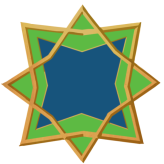
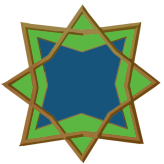
Misc fixes.  Darkened the border edge of guardian energy orb to make it not blend with guardian card frame

diff --git a/src/main/java/downfall/powers/neowpowers/UnbridledRage.java b/src/main/java/downfall/powers/neowpowers/UnbridledRage.java
@@ -1,12 +1,17 @@
 package downfall.powers.neowpowers;
 
+import charbosses.actions.unique.EnemyChangeStanceAction;
+import charbosses.bosses.AbstractCharBoss;
+import charbosses.stances.EnWrathStance;
 import com.badlogic.gdx.graphics.Texture;
 import com.badlogic.gdx.graphics.g2d.TextureAtlas;
 import com.megacrit.cardcrawl.actions.common.ApplyPowerAction;
 import com.megacrit.cardcrawl.core.AbstractCreature;
 import com.megacrit.cardcrawl.core.CardCrawlGame;
 import com.megacrit.cardcrawl.powers.AbstractPower;
-import com.megacrit.cardcrawl.powers.StrengthPower;import downfall.downfallMod; import charbosses.powers.bossmechanicpowers.AbstractBossMechanicPower;
+import com.megacrit.cardcrawl.powers.StrengthPower;
+import com.megacrit.cardcrawl.stances.NeutralStance;
+import downfall.downfallMod; import charbosses.powers.bossmechanicpowers.AbstractBossMechanicPower;
 import downfall.util.TextureLoader;
 
 public class UnbridledRage extends AbstractBossMechanicPower {
@@ -31,30 +36,20 @@ public class UnbridledRage extends AbstractBossMechanicPower {
         this.updateDescription();
 
         active = false;
+
         this.canGoNegative = false;
     }
 
-    @Override
-    public int onLoseHp(int damageAmount) {
-        if (!active) {
-            if (owner.currentHealth <= owner.maxHealth / 2) {
-                active = true;
-                addToBot(new ApplyPowerAction(this.owner, this.owner, new StrengthPower(this.owner, 6), 6));
-            }
-        }
-        return super.onLoseHp(damageAmount);
-    }
 
     @Override
-    public int onHeal(int healAmount) {
-        if (active) {
-            if (owner.currentHealth > owner.maxHealth / 2) {
-                active = false;
-                addToBot(new ApplyPowerAction(this.owner, this.owner, new StrengthPower(this.owner, -6), -6));
-            }
+    public void atEndOfRound() {
+        super.atEndOfRound();
+        if (!active && owner.currentHealth <= owner.maxHealth/2) {
+            addToBot(new ApplyPowerAction(this.owner, this.owner, new StrengthPower(this.owner, 6), 6));
+            active = true;
         }
-        return super.onHeal(healAmount);
     }
+
 
     @Override
     public void updateDescription() {

diff --git a/src/main/java/charbosses/powers/bossmechanicpowers/WatcherAngryPower.java b/src/main/java/charbosses/powers/bossmechanicpowers/WatcherAngryPower.java
@@ -20,6 +20,7 @@ import com.megacrit.cardcrawl.localization.PowerStrings;
 import com.megacrit.cardcrawl.powers.AbstractPower;
 import com.megacrit.cardcrawl.powers.GainStrengthPower;
 import com.megacrit.cardcrawl.powers.StrengthPower;
+import com.megacrit.cardcrawl.stances.NeutralStance;
 import slimebound.SlimeboundMod;
 
 public class WatcherAngryPower extends AbstractBossMechanicPower {
@@ -43,31 +44,15 @@ public class WatcherAngryPower extends AbstractBossMechanicPower {
     }
 
     @Override
-    public int onLoseHp(int damageAmount) {
-        SlimeboundMod.logger.info("Watcher Angry lost " + damageAmount + " HP");
-        SlimeboundMod.logger.info("Watcher Angry current HP " + this.owner.currentHealth);
-        SlimeboundMod.logger.info("Watcher Angry Max HP " + this.owner.maxHealth / 2);
-        if ((this.owner.currentHealth - damageAmount) <= (this.owner.maxHealth / 2) && !active) {
-            flash();
-            active = true;
+    public void atEndOfRound() {
+        super.atEndOfRound();
+        if (!active && owner.currentHealth <= owner.maxHealth/2) {
+
             this.addToBot(new EnemyChangeStanceAction(EnWrathStance.STANCE_ID));
-           // this.addToBot(new RemoveSpecificPowerAction(this.owner, this.owner, this));
+            active = true;
         }
-        return super.onLoseHp(damageAmount);
     }
 
-    @Override
-    public float atDamageReceive(float damage, DamageInfo.DamageType damageType) {
-
-        if (damage > 1.0F) {
-            if (this.owner instanceof AbstractCharBoss) {
-                if (AbstractCharBoss.boss.stance instanceof EnWrathStance) {
-                   return damage * 1.5F;
-                }
-            }
-        }
-       return damage;
-    }
 
     static {
         powerStrings = CardCrawlGame.languagePack.getPowerStrings(POWER_ID);

diff --git a/src/main/java/charbosses/powers/general/PoisonProtectionPower.java b/src/main/java/charbosses/powers/general/PoisonProtectionPower.java
@@ -1,6 +1,7 @@
 package charbosses.powers.general;
 
 import basemod.interfaces.CloneablePowerInterface;
+import charbosses.powers.bossmechanicpowers.AbstractBossMechanicPower;
 import com.badlogic.gdx.graphics.Texture;
 import com.badlogic.gdx.graphics.g2d.TextureAtlas;
 import com.megacrit.cardcrawl.actions.common.ExhaustAction;
@@ -11,7 +12,7 @@ import com.megacrit.cardcrawl.powers.AbstractPower;
 import downfall.downfallMod;
 import downfall.util.TextureLoader;
 
-public class PoisonProtectionPower extends AbstractPower implements CloneablePowerInterface {
+public class PoisonProtectionPower extends AbstractBossMechanicPower implements CloneablePowerInterface {
 
     public static final String POWER_ID = downfallMod.makeID("PoisonResist");
     public static final String NAME = CardCrawlGame.languagePack.getPowerStrings(POWER_ID).NAME;

diff --git a/src/main/java/champ/cards/VampiricStrike.java b/src/main/java/champ/cards/VampiricStrike.java
@@ -1,5 +1,6 @@
 package champ.cards;
 
+import champ.ChampMod;
 import com.megacrit.cardcrawl.actions.AbstractGameAction;
 import com.megacrit.cardcrawl.actions.common.GainEnergyAction;
 import com.megacrit.cardcrawl.actions.watcher.WallopAction;
@@ -17,6 +18,9 @@ public class VampiricStrike extends AbstractChampCard {
     public VampiricStrike() {
         super(ID, 1, CardType.ATTACK, CardRarity.RARE, CardTarget.ENEMY);
         baseDamage = DAMAGE;
+        tags.add(ChampMod.COMBO);
+        tags.add(ChampMod.COMBOBERSERKER);
+        tags.add(ChampMod.COMBODEFENSIVE);
     }
 
     public void use(AbstractPlayer p, AbstractMonster m) {

diff --git a/src/main/java/downfall/powers/neowpowers/AncientConstruct.java b/src/main/java/downfall/powers/neowpowers/AncientConstruct.java
@@ -41,8 +41,7 @@ public class AncientConstruct extends AbstractBossMechanicPower {
 
 
     @Override
-    public void atStartOfTurn() {
-        super.atStartOfTurn();
+    public void atEndOfTurn(boolean isPlayer) {
         if (!this.owner.hasPower(ArtifactPower.POWER_ID)) {
             AbstractDungeon.actionManager.addToBottom(new ApplyPowerAction(this.owner, this.owner, new ArtifactPower(this.owner, this.amount), this.amount));
             //   AbstractDungeon.actionManager.addToBottom(new LoseEnergyAction(this.amount));

diff --git a/src/main/java/theHexaghost/potions/EctoCoolerPotion.java b/src/main/java/theHexaghost/potions/EctoCoolerPotion.java
@@ -17,7 +17,7 @@ public class EctoCoolerPotion extends CustomPotion {
     public static final String[] DESCRIPTIONS = potionStrings.DESCRIPTIONS;
 
     public EctoCoolerPotion() {
-        super(NAME, POTION_ID, PotionRarity.UNCOMMON, PotionSize.CARD, PotionColor.SMOKE);
+        super(NAME, POTION_ID, PotionRarity.COMMON, PotionSize.CARD, PotionColor.SMOKE);
         this.isThrown = false;
         this.targetRequired = false;
     }

diff --git a/src/main/java/champ/cards/Devastate.java b/src/main/java/champ/cards/Devastate.java
@@ -24,7 +24,7 @@ public class Devastate extends AbstractChampCard {
     }
 
     public void triggerOnCardPlayed(AbstractCard c) {
-        if (c.hasTag(ChampMod.FINISHER)) {
+        if (c.hasTag(ChampMod.FINISHER) && c!=this) {
             updateCost(-1);
         }
     }
